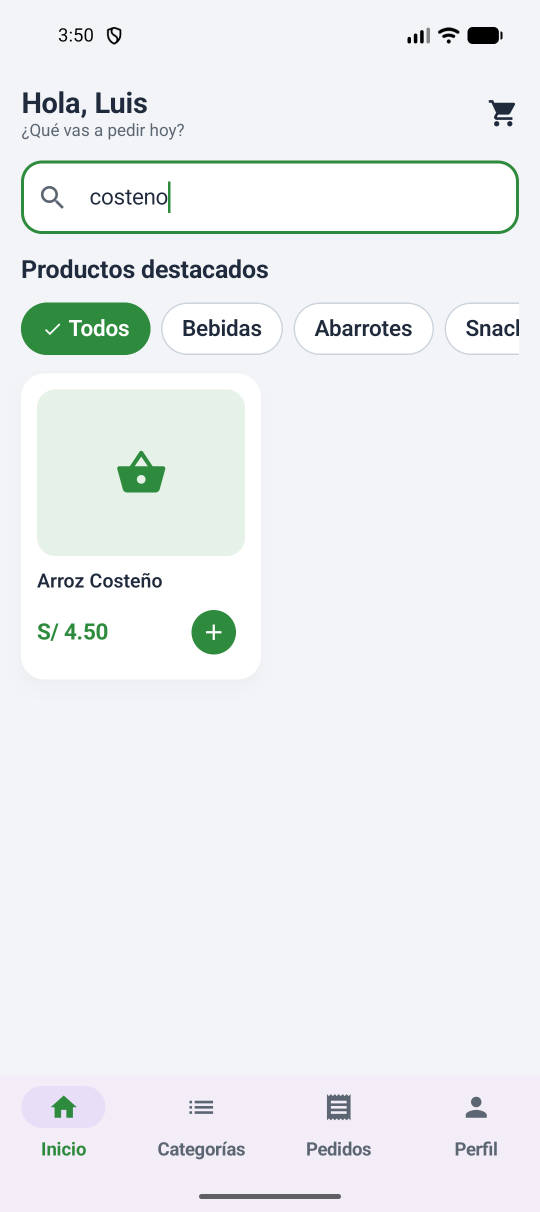
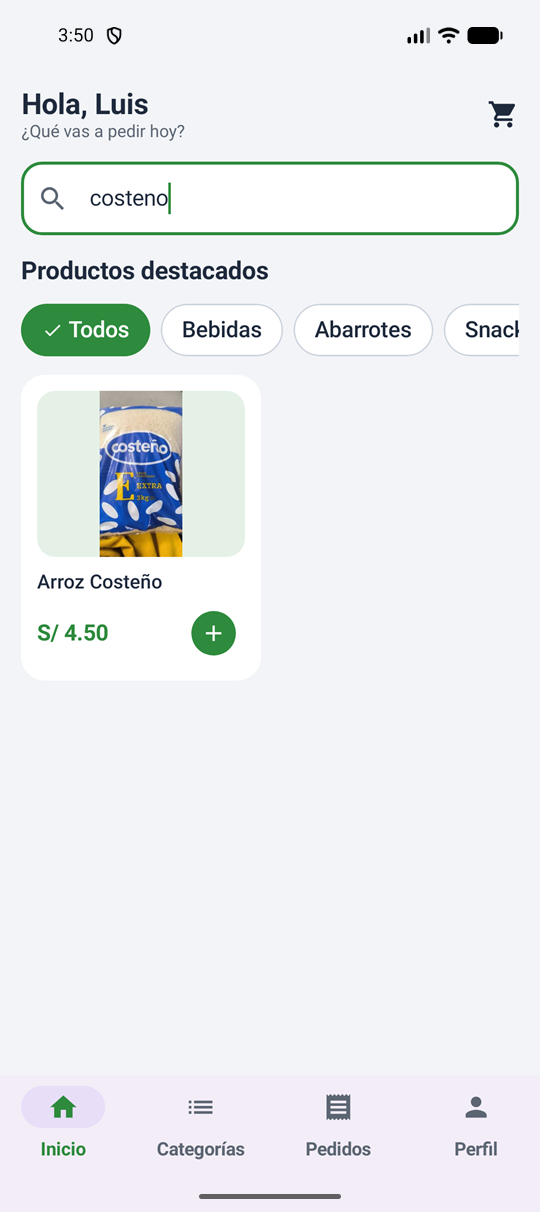
Agregar fotos a los productos y actualizar las capturas del README

diff --git a/app/src/main/java/com/tecsup/mibodega/ui/cliente/screens/detalle/DetalleProductoScreen.kt b/app/src/main/java/com/tecsup/mibodega/ui/cliente/screens/detalle/DetalleProductoScreen.kt
@@ -1,8 +1,8 @@
 package com.tecsup.mibodega.ui.cliente.screens.detalle
 
+import androidx.compose.foundation.Image
 import androidx.compose.foundation.background
 import androidx.compose.foundation.layout.Arrangement
-import androidx.compose.foundation.layout.Box
 import androidx.compose.foundation.layout.Column
 import androidx.compose.foundation.layout.Row
 import androidx.compose.foundation.layout.Spacer
@@ -12,13 +12,11 @@ import androidx.compose.foundation.layout.fillMaxWidth
 import androidx.compose.foundation.layout.height
 import androidx.compose.foundation.layout.padding
 import androidx.compose.foundation.layout.safeDrawingPadding
-import androidx.compose.foundation.layout.size
 import androidx.compose.foundation.shape.CircleShape
 import androidx.compose.material.icons.Icons
 import androidx.compose.material.icons.filled.ArrowBack
 import androidx.compose.material.icons.filled.Favorite
 import androidx.compose.material.icons.filled.FavoriteBorder
-import androidx.compose.material.icons.filled.ShoppingBasket
 import androidx.compose.material3.Icon
 import androidx.compose.material3.IconButton
 import androidx.compose.material3.MaterialTheme
@@ -30,6 +28,8 @@ import androidx.compose.runtime.remember
 import androidx.compose.runtime.setValue
 import androidx.compose.ui.Alignment
 import androidx.compose.ui.Modifier
+import androidx.compose.ui.layout.ContentScale
+import androidx.compose.ui.res.painterResource
 import androidx.compose.ui.tooling.preview.Preview
 import androidx.compose.ui.unit.dp
 import androidx.compose.ui.unit.sp
@@ -40,7 +40,6 @@ import com.tecsup.mibodega.ui.componentes.SelectorCantidad
 import com.tecsup.mibodega.ui.theme.BodegaTheme
 import com.tecsup.mibodega.ui.theme.GrisClaro
 import com.tecsup.mibodega.ui.theme.RojoPrecio
-import com.tecsup.mibodega.ui.theme.VerdeBodega
 
 /**
  * Pantalla 4: Detalle del producto (mockup "Cliente").
@@ -63,7 +62,7 @@ fun DetalleProductoScreen(
     ) {
         EncabezadoDetalle(onVolver = onVolver)
 
-        ImagenProducto()
+        ImagenProducto(producto)
 
         Column(
             modifier = Modifier
@@ -146,23 +145,17 @@ private fun EncabezadoDetalle(onVolver: () -> Unit) {
 }
 
 @Composable
-private fun ImagenProducto() {
-    // Placeholder de imagen: reemplázalo por Image(painterResource(...))
-    // cuando tengan la foto real de cada producto.
-    Box(
+private fun ImagenProducto(producto: Producto) {
+    // Foto del producto (res/drawable). Fit muestra el empaque completo sin recortarlo.
+    Image(
+        painter = painterResource(producto.imagen),
+        contentDescription = producto.nombre,
+        contentScale = ContentScale.Fit,
         modifier = Modifier
             .fillMaxWidth()
             .aspectRatio(1.4f)
-            .background(GrisClaro),
-        contentAlignment = Alignment.Center
-    ) {
-        Icon(
-            imageVector = Icons.Default.ShoppingBasket,
-            contentDescription = null,
-            tint = VerdeBodega,
-            modifier = Modifier.size(80.dp)
-        )
-    }
+            .background(GrisClaro)
+    )
 }
 
 @Preview(showBackground = true, showSystemUi = true)

diff --git a/app/src/main/java/com/tecsup/mibodega/ui/componentes/ProductoCard.kt b/app/src/main/java/com/tecsup/mibodega/ui/componentes/ProductoCard.kt
@@ -1,8 +1,8 @@
 package com.tecsup.mibodega.ui.componentes
 
+import androidx.compose.foundation.Image
 import androidx.compose.foundation.background
 import androidx.compose.foundation.clickable
-import androidx.compose.foundation.layout.Box
 import androidx.compose.foundation.layout.Column
 import androidx.compose.foundation.layout.Row
 import androidx.compose.foundation.layout.Spacer
@@ -15,7 +15,6 @@ import androidx.compose.foundation.shape.CircleShape
 import androidx.compose.foundation.shape.RoundedCornerShape
 import androidx.compose.material.icons.Icons
 import androidx.compose.material.icons.filled.Add
-import androidx.compose.material.icons.filled.ShoppingBasket
 import androidx.compose.material3.Card
 import androidx.compose.material3.CardDefaults
 import androidx.compose.material3.Icon
@@ -25,6 +24,9 @@ import androidx.compose.material3.Text
 import androidx.compose.runtime.Composable
 import androidx.compose.ui.Alignment
 import androidx.compose.ui.Modifier
+import androidx.compose.ui.draw.clip
+import androidx.compose.ui.layout.ContentScale
+import androidx.compose.ui.res.painterResource
 import androidx.compose.ui.text.font.FontWeight
 import androidx.compose.ui.text.style.TextOverflow
 import androidx.compose.ui.unit.dp
@@ -52,22 +54,17 @@ fun ProductoCard(
         elevation = CardDefaults.cardElevation(defaultElevation = 1.dp)
     ) {
         Column(modifier = Modifier.padding(10.dp)) {
-            // Placeholder de imagen: reemplázalo por Image(painterResource(...))
-            // cuando tengan las fotos reales de cada producto.
-            Box(
+            // Foto del producto (res/drawable). Fit muestra el empaque completo sin recortarlo.
+            Image(
+                painter = painterResource(producto.imagen),
+                contentDescription = producto.nombre,
+                contentScale = ContentScale.Fit,
                 modifier = Modifier
                     .fillMaxWidth()
                     .aspectRatio(1.3f)
-                    .background(GrisClaro, RoundedCornerShape(10.dp)),
-                contentAlignment = Alignment.Center
-            ) {
-                Icon(
-                    imageVector = Icons.Default.ShoppingBasket,
-                    contentDescription = producto.nombre,
-                    tint = VerdeBodega,
-                    modifier = Modifier.size(36.dp)
-                )
-            }
+                    .clip(RoundedCornerShape(10.dp))
+                    .background(GrisClaro)
+            )
 
             Spacer(Modifier.height(8.dp))
 

diff --git a/app/src/main/java/com/tecsup/mibodega/ui/cliente/screens/carrito/CarritoScreen.kt b/app/src/main/java/com/tecsup/mibodega/ui/cliente/screens/carrito/CarritoScreen.kt
@@ -1,8 +1,8 @@
 package com.tecsup.mibodega.ui.cliente.screens.carrito
 
+import androidx.compose.foundation.Image
 import androidx.compose.foundation.background
 import androidx.compose.foundation.layout.Arrangement
-import androidx.compose.foundation.layout.Box
 import androidx.compose.foundation.layout.Column
 import androidx.compose.foundation.layout.PaddingValues
 import androidx.compose.foundation.layout.Row
@@ -20,7 +20,6 @@ import androidx.compose.foundation.shape.RoundedCornerShape
 import androidx.compose.material.icons.Icons
 import androidx.compose.material.icons.filled.ArrowBack
 import androidx.compose.material.icons.filled.Delete
-import androidx.compose.material.icons.filled.ShoppingBasket
 import androidx.compose.material3.HorizontalDivider
 import androidx.compose.material3.Icon
 import androidx.compose.material3.IconButton
@@ -29,6 +28,9 @@ import androidx.compose.material3.Text
 import androidx.compose.runtime.Composable
 import androidx.compose.ui.Alignment
 import androidx.compose.ui.Modifier
+import androidx.compose.ui.draw.clip
+import androidx.compose.ui.layout.ContentScale
+import androidx.compose.ui.res.painterResource
 import androidx.compose.ui.text.font.FontWeight
 import androidx.compose.ui.tooling.preview.Preview
 import androidx.compose.ui.unit.dp
@@ -127,20 +129,16 @@ private fun FilaCarrito(
         modifier = Modifier.fillMaxWidth(),
         verticalAlignment = Alignment.CenterVertically
     ) {
-        // Placeholder de imagen: reemplázalo por Image(painterResource(...))
-        Box(
+        // Foto del producto (res/drawable)
+        Image(
+            painter = painterResource(item.producto.imagen),
+            contentDescription = item.producto.nombre,
+            contentScale = ContentScale.Fit,
             modifier = Modifier
                 .size(56.dp)
-                .background(GrisClaro, RoundedCornerShape(10.dp)),
-            contentAlignment = Alignment.Center
-        ) {
-            Icon(
-                imageVector = Icons.Default.ShoppingBasket,
-                contentDescription = item.producto.nombre,
-                tint = VerdeBodega,
-                modifier = Modifier.size(26.dp)
-            )
-        }
+                .clip(RoundedCornerShape(10.dp))
+                .background(GrisClaro)
+        )
 
         Spacer(Modifier.width(12.dp))
 

diff --git a/app/src/main/java/com/tecsup/mibodega/ui/cliente/modelo/DatosFake.kt b/app/src/main/java/com/tecsup/mibodega/ui/cliente/modelo/DatosFake.kt
@@ -1,5 +1,7 @@
 package com.tecsup.mibodega.ui.cliente.modelo
 
+import com.tecsup.mibodega.R
+
 /**
  * Datos de ejemplo (fake) para mostrar la UI sin base de datos.
  * Cuando conecten Room o una API, este archivo se reemplaza por
@@ -26,35 +28,40 @@ val listaProductosFake = listOf(
         nombre = "Arroz Costeño",
         descripcion = "Arroz extra, grano largo, ideal para el día a día.",
         precio = 4.50,
-        categoria = "Abarrotes"
+        categoria = "Abarrotes",
+        imagen = R.drawable.producto_arroz_costeno
     ),
     Producto(
         id = 2,
         nombre = "Aceite Primor",
         descripcion = "Aceite vegetal 1 L, alto en vitamina E.",
         precio = 8.90,
-        categoria = "Abarrotes"
+        categoria = "Abarrotes",
+        imagen = R.drawable.producto_aceite_primor
     ),
     Producto(
         id = 3,
         nombre = "Leche Gloria",
         descripcion = "Leche evaporada entera 1 L.",
         precio = 5.20,
-        categoria = "Abarrotes"
+        categoria = "Abarrotes",
+        imagen = R.drawable.producto_leche_gloria
     ),
     Producto(
         id = 4,
         nombre = "Galleta Oreo",
         descripcion = "Galletas de chocolate rellenas 126 g.",
         precio = 3.50,
-        categoria = "Snacks"
+        categoria = "Snacks",
+        imagen = R.drawable.producto_galleta_oreo
     ),
     Producto(
         id = 5,
         nombre = "Coca-Cola Original",
         descripcion = "Bebida gaseosa sabor cola. Ideal para compartir en familia.",
         precio = 6.50,
-        categoria = "Bebidas"
+        categoria = "Bebidas",
+        imagen = R.drawable.producto_coca_cola
     )
 )
 

diff --git a/app/src/main/java/com/tecsup/mibodega/ui/cliente/modelo/Producto.kt b/app/src/main/java/com/tecsup/mibodega/ui/cliente/modelo/Producto.kt
@@ -1,10 +1,13 @@
 package com.tecsup.mibodega.ui.cliente.modelo
 
+import androidx.annotation.DrawableRes
+
 data class Producto(
     val id: Int,
     val nombre: String,
     val descripcion: String,
     val precio: Double,
-    val categoria: String
+    val categoria: String,
+    // Foto del producto guardada en res/drawable (ej. R.drawable.producto_arroz_costeno)
+    @DrawableRes val imagen: Int
 )
-

diff --git a/README.md b/README.md
@@ -99,6 +99,8 @@ app/src/main/java/com/tecsup/mibodega/
 
 ### Fase 1 — rama `main`
 
+Las tarjetas, el detalle y el carrito muestran la foto real de cada producto.
+
 | Bienvenida | Iniciar sesión | Registro |
 |:---:|:---:|:---:|
 | <img src="capturas/main/01-bienvenida.png" width="220"> | <img src="capturas/main/02-login.png" width="220"> | <img src="capturas/main/03-registro.png" width="220"> |
@@ -158,7 +160,8 @@ El `NavigationDrawer` es un menú lateral que se abre con un botón o deslizando
 ## Observaciones
 
 1. El carrito, el usuario y los pedidos viven en memoria (en `ClienteApp`): al cerrar la app se pierden, y quien entra por "Iniciar sesión" sin haberse registrado ve datos de ejemplo. Para una app real haría falta guardarlos con Room o DataStore, o en un servidor.
-2. El proyecto usa Gradle 8.13, que no funciona con el JDK 25 que trae Android Studio. Para poder sincronizar y compilar hubo que configurar JDK 21 como Gradle JDK.
+2. El proyecto usaba Gradle 8.13, que no funciona con el JDK 25 que trae Android Studio. Se actualizó el Gradle Wrapper a 9.4.1, que sí lo soporta, así que el proyecto sincroniza y compila al clonarlo sin cambiar el Gradle JDK.
+3. Las fotos de los productos están en `res/drawable` (`producto_*.jpg`) y se obtuvieron de [Open Food Facts](https://world.openfoodfacts.org), una base de datos abierta de productos. Cada `Producto` guarda su foto en el campo `imagen`, y al estar dentro de la app se ven sin conexión a internet.
 
 ## Conclusiones
 
